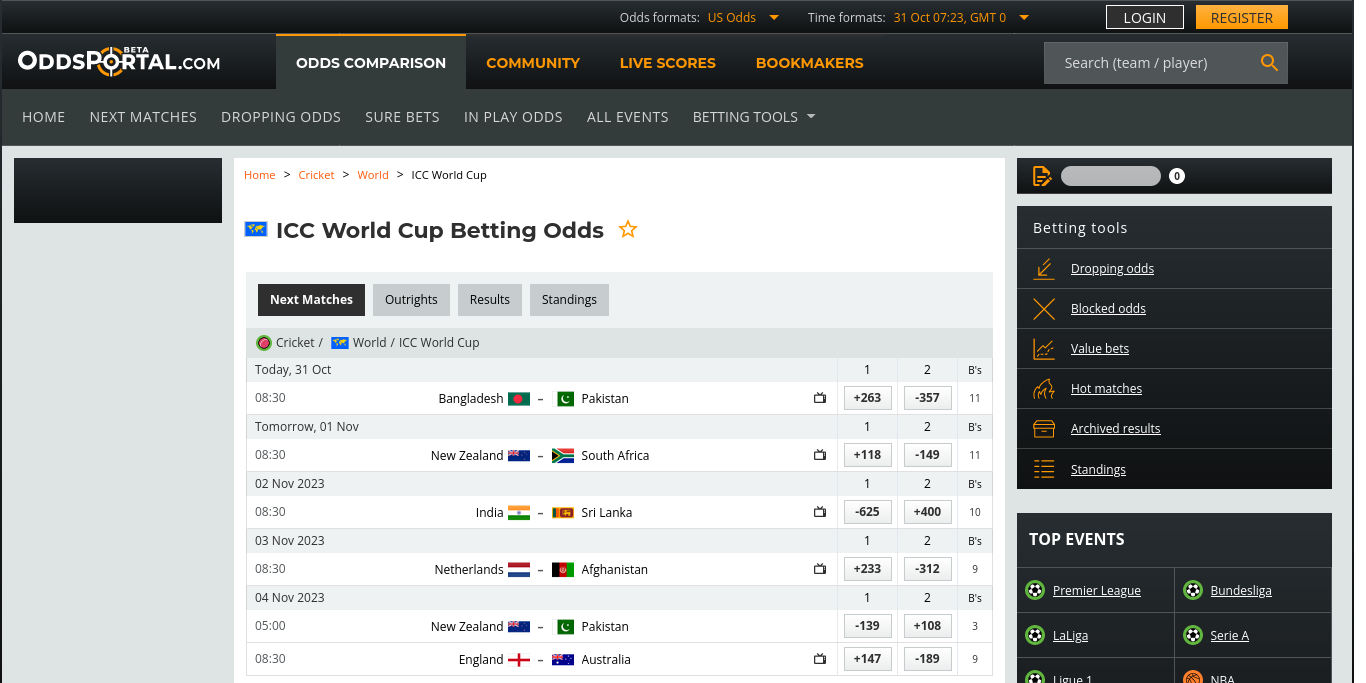
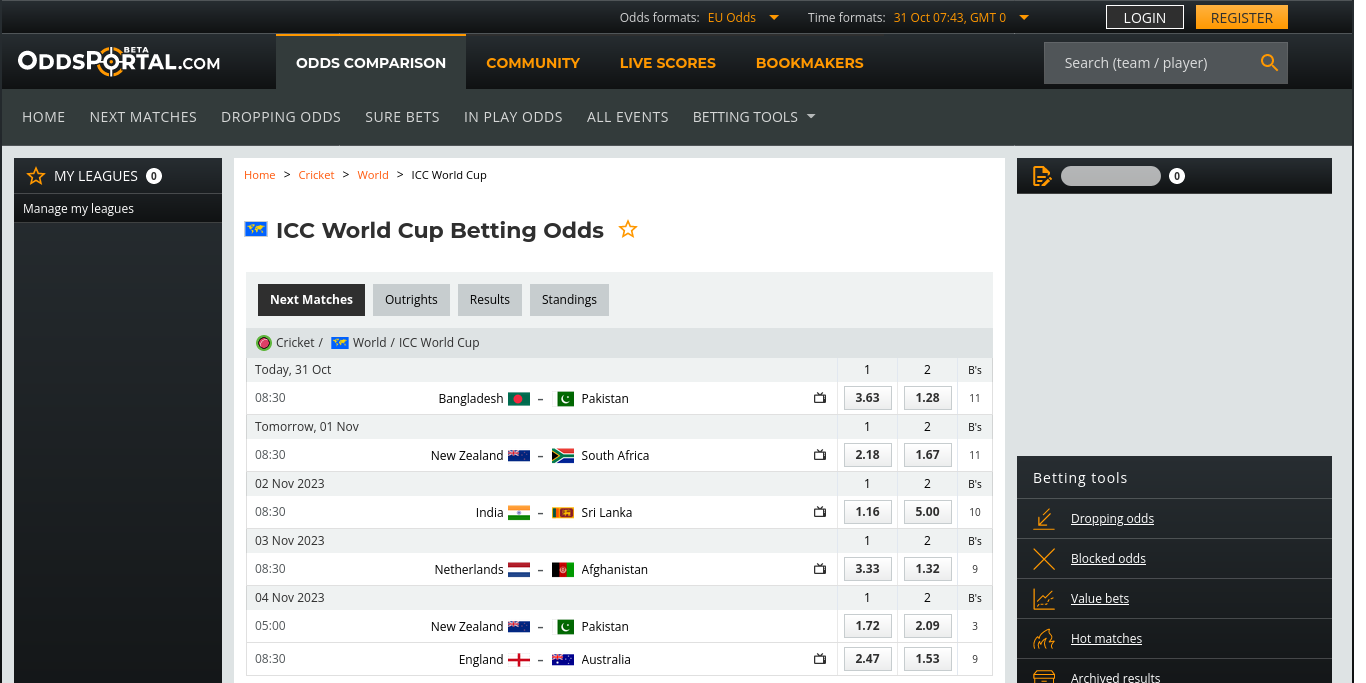
Update Data (Cron) Tue Oct 31 07:43:37 UTC 2023

diff --git a/src/nonview/data/TEAM1_ID_TO_TEAM2_ID_TO_ODDS_PAIR.js b/src/nonview/data/TEAM1_ID_TO_TEAM2_ID_TO_ODDS_PAIR.js
@@ -1,6 +1,6 @@
 // Auto Generated by UpdateTeam1IDToTeam2IDToOddsPair
 // https://www.oddsportal.com/cricket/world/icc-world-cup/
-// 2023-10-31 12:53:47 +0000
+// 2023-10-31 13:13:30 +0000
 
 import { TEAM } from "../core/Team.js";
 
@@ -18,7 +18,7 @@ export const TEAM1_ID_TO_TEAM2_ID_TO_ODDS_PAIR = {
     [TEAM.NLD.id]: [1.32, 3.33],
   },
   [TEAM.NZL.id]: {
-    [TEAM.PAK.id]: [1.72, 2.08],
+    [TEAM.PAK.id]: [1.72, 2.09],
   },
   [TEAM.AUS.id]: {
     [TEAM.ENG.id]: [1.53, 2.47],

diff --git a/src/nonview/constants/VERSION.js b/src/nonview/constants/VERSION.js
@@ -1,4 +1,4 @@
 // Auto-generated by javascript_version.py
-export const VERSION_UT = 1698737036;
+export const VERSION_UT = 1698738218;
 export const VERSION_DATETIME = new Date(VERSION_UT * 1_000);
 export const LAST_COMMIT_MESSAGE = "Updated 📊Data";

diff --git a/src/nonview/data/TEAM_ID_TO_P_WINNER.js b/src/nonview/data/TEAM_ID_TO_P_WINNER.js
@@ -1,6 +1,6 @@
 // Auto Generated by UpdateTeamIDToPWinner
 // https://www.oddsportal.com/cricket/world/icc-world-cup/outrights/
-// 2023-10-31 12:53:55 +0000
+// 2023-10-31 13:13:37 +0000
 
 export const TEAM_ID_TO_P_WINNER = {
   IND: 0.418897, // 42%

diff --git a/src/nonview/data/ODI_ID_TO_WINNER.js b/src/nonview/data/ODI_ID_TO_WINNER.js
@@ -1,6 +1,6 @@
 // Auto Generated by UpdateODIIDToWinner
 // https://www.cricbuzz.com/cricket-series/6732/icc-cricket-world-cup-2023/matches
-// 2023-10-31 12:53:28 +0000
+// 2023-10-31 13:13:12 +0000
 
 import { TEAM } from "../core/Team.js";
 

diff --git a/src/nonview/data/POINTS_TABLE.js b/src/nonview/data/POINTS_TABLE.js
@@ -1,6 +1,6 @@
 // Auto Generated by UpdatePointsTable
 // https://www.cricketworldcup.com/standings
-// 2023-10-31 12:53:38 +0000
+// 2023-10-31 13:13:22 +0000
 
 import { TEAM } from "../core/Team.js";
 
